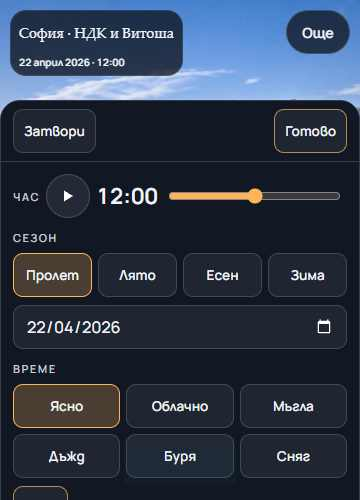
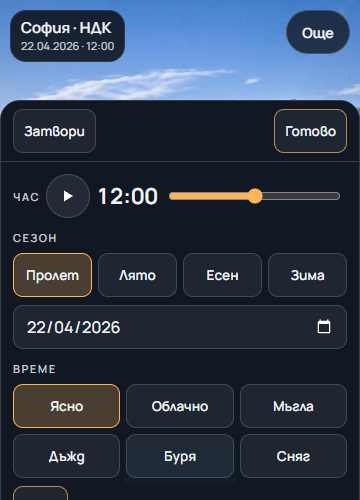
Compact mobile header and bound shadow shader loop

Changed region(s): [[0.0306, 0.0, 0.5194, 0.15]]

diff --git a/src/ui/ui.js b/src/ui/ui.js
@@ -19,7 +19,7 @@ const h = (html) => { const t = document.createElement('template'); t.innerHTML 
 export function buildUI({ state, scene, version, actions }) {
   const cfg = scene.cfg, root = document.querySelector('#app'), $ = s => root.querySelector(s);
   root.append(h(`<div class="top" id="top">
-    <div class="title"><h1>${cfg.title}</h1><button class="title-toggle" type="button" aria-expanded="false" aria-controls="readout">${cfg.title}</button><p>${cfg.subtitle} · слънцето е изчислено за ${cfg.location.name}</p><div class="readout" id="readout"></div></div>
+    <div class="title"><h1>${cfg.title}</h1><button class="title-toggle" type="button" aria-haspopup="dialog" aria-controls="titleDetails"><span>София · НДК</span><span id="compactDate"></span></button><p>${cfg.subtitle} · слънцето е изчислено за ${cfg.location.name}</p><div class="readout" id="readout"></div></div>
     <div class="tr" role="toolbar" aria-label="Режими">
       <button class="chip" id="panelBtn" type="button" aria-pressed="false" title="Скрий всичко (клавиш H)">${ICON.panel}<span>Само снимката</span></button>
       <button class="chip" id="shotBtn" type="button" title="Запази кадъра като PNG">${ICON.camera}<span>Запази кадър</span></button>
@@ -74,6 +74,7 @@ export function buildUI({ state, scene, version, actions }) {
     <p class="muted">Симулация, не прогноза. Звукът е синтезиран в браузъра. Приложението не събира данни и не ползва бисквитки; в браузъра се пази само бележка, че си видял въведението.</p>
     <div class="btns"><button type="button" class="pri" id="creditsClose">Затвори</button></div>
   </dialog>`));
+  root.append(h(`<dialog class="title-details" id="titleDetails" aria-labelledby="detailsTitle"><h2 id="detailsTitle">${cfg.title}</h2><p>${cfg.subtitle} · слънцето е изчислено за ${cfg.location.name}</p><div class="readout" id="detailsReadout"></div><button type="button" class="sec" id="detailsClose">Затвори</button></dialog>`));
   root.append(h(`<div class="toast" id="toast" role="status" aria-live="polite"></div>`));
 
   const hourEl = $('#hour'), clockEl = $('#clock'), dateEl = $('#date'), S = state.S;
@@ -92,7 +93,7 @@ export function buildUI({ state, scene, version, actions }) {
     readout(alt) {
       const pos = alt > 0.5 ? `Слънцето е ${Math.round(alt)}° над хоризонта` : alt > -0.833 ? 'Слънцето е на хоризонта' : `Слънцето е ${Math.round(-alt)}° под хоризонта`;
       const html = `<b>${S.d} ${MONTHS[S.m]} ${S.y} · ${formatClock(S.hour)}</b><span class="readout-details"><br>${pos}<br>Изгрев ${formatClock(state.times.rise)} · Залез ${formatClock(state.times.set)}</span>`;
-      if (html !== ui._ro) { ui._ro = html; $('#readout').innerHTML = html; }
+      if (html !== ui._ro) { ui._ro = html; $('#readout').innerHTML = html; $('#detailsReadout').innerHTML = html; $('#compactDate').textContent = `${String(S.d).padStart(2, '0')}.${String(S.m + 1).padStart(2, '0')}.${S.y} · ${formatClock(S.hour)}`; }
     },
     setPhotoMode(on) { document.body.classList.toggle('photo', on); $('#panelBtn').setAttribute('aria-pressed', String(on)); if (on) { $('#photoExit').focus({ preventScroll: true }); ui.toast('Само снимката. Натисни H или Esc, за да върнеш управлението.', 2600); } else $('#panelBtn').focus({ preventScroll: true }); },
     get photoMode() { return document.body.classList.contains('photo'); },
@@ -132,6 +133,7 @@ export function buildUI({ state, scene, version, actions }) {
     const returnButton = matchMedia('(max-width: 820px), (max-height: 500px)').matches && !$('#panel').classList.contains('is-open') ? $('#moreBtn') : opener;
     returnButton.focus({ preventScroll: true });
   });
+  $('#detailsClose').addEventListener('click', () => $('#titleDetails').close());
   const mobileSheet = installMobileSheet(root);
   addEventListener('keydown', e => {
     if (e.defaultPrevented || e.ctrlKey || e.metaKey || e.altKey || dlg.open) return;   // a modal dialog owns the keyboard

diff --git a/src/ui/ui.css b/src/ui/ui.css
@@ -61,6 +61,12 @@ input[type=date] { min-height: 36px; border-radius: 10px; border: 1px solid var(
 .sheet-pinned { display: contents; }
 .title-toggle { display: none; }
 .mobile-more, .mobile-menu, .mobile-open, .mobile-sheet-header { display: none; }
+.title-details { width: min(430px, calc(100vw - 28px)); max-height: calc(var(--visible-height) - 32px); overflow-y: auto; padding: 18px; border: 1px solid var(--line); border-radius: 16px; background: #111824; color: var(--txt); box-shadow: 0 16px 48px rgba(0,0,0,.6); }
+.title-details::backdrop { background: rgba(3,5,10,.55); }
+.title-details h2 { margin: 0 0 8px; font: 400 24px var(--serif); }
+.title-details p { margin: 0; font-size: 13px; color: var(--mut); }
+.title-details .readout { margin: 12px 0 16px; }
+.title-details button { min-height: 44px; }
 
 .caption { position: fixed; left: 50%; top: 21%; transform: translate(-50%, 8px); font-family: var(--serif); font-style: italic; font-size: clamp(20px, 2.6vw, 34px); text-align: center; color: #fff; text-shadow: 0 2px 24px rgba(0, 0, 0, .8), 0 0 3px rgba(0, 0, 0, .6); opacity: 0; transition: opacity .5s ease, transform .5s ease; pointer-events: none; z-index: 4; width: min(92vw, 900px); }
 .caption.on { opacity: 1; transform: translate(-50%, 0); }
@@ -147,7 +153,11 @@ body.photo .photo-exit:focus-visible, body.photo .photo-exit:hover { opacity: 1;
 
 @media (max-width: 820px), (max-height: 500px) {
   .top { align-items: flex-start; }
-  .title { max-width: calc(100% - 88px); }
+  .title { max-width: calc(100% - 88px); min-height: 50px; padding: 4px 10px; background: rgba(10,14,22,.85); }
+  .title h1, .title p, .title > .readout { display: none; }
+  .title-toggle { display: flex; flex-direction: column; align-items: flex-start; justify-content: center; gap: 1px; width: 100%; min-height: 42px; padding: 0; border: 0; background: none; color: var(--txt); text-align: left; cursor: pointer; }
+  .title-toggle span:first-child { font: 600 15px/1.25 var(--font); white-space: nowrap; }
+  .title-toggle span:last-child { font: 500 11px/1.25 var(--font); color: var(--mut); white-space: nowrap; }
   .tr { flex: 0 0 auto; }
   .mobile-more { display: inline-flex; min-width: 64px; }
   .mobile-open { display: block; position: fixed; left: 50%; bottom: calc(var(--visible-bottom) + env(safe-area-inset-bottom) + 16px); transform: translateX(-50%); z-index: 8; min-width: 112px; min-height: 48px; padding: 0 18px; border: 1px solid var(--acc); border-radius: 999px; background: #131a27; color: var(--txt); font: 700 14px var(--font); box-shadow: 0 4px 20px rgba(0,0,0,.45); cursor: pointer; }
@@ -170,7 +180,7 @@ body.photo .photo-exit:focus-visible, body.photo .photo-exit:hover { opacity: 1;
   .mobile-open:focus-visible, .mobile-menu button:focus-visible, .mobile-sheet-header button:focus-visible { outline: 3px solid var(--acc); outline-offset: 2px; }
 }
 @media (max-height: 500px) and (min-width: 600px) {
-  .title { max-width: min(430px, calc(100% - 88px)); }
+  .title { max-width: min(220px, calc(100% - 88px)); }
   .panel { width: min(40%, 360px); max-height: calc(var(--visible-height) - var(--sheet-top)); }
   .mobile-menu { top: calc(var(--visible-top) + 58px); }
 }

diff --git a/src/ui/mobile-sheet.js b/src/ui/mobile-sheet.js
@@ -4,7 +4,6 @@ export function installMobileSheet(root) {
   const menu = root.querySelector('#mobileMenu');
   const moreButton = root.querySelector('#moreBtn');
   const mobile = matchMedia('(max-width: 820px), (max-height: 500px)');
-  const compact = matchMedia('(max-width: 419px), (max-height: 499px)');
   const secondary = [...root.querySelector('.tr').querySelectorAll('button:not(#moreBtn)')];
   const placeholders = secondary.map(button => {
     const marker = document.createComment('desktop toolbar position');
@@ -55,12 +54,10 @@ export function installMobileSheet(root) {
   });
   root.querySelector('#menuCredits').addEventListener('click', () => root.querySelector('#credits').showModal());
 
-  const title = root.querySelector('.title');
   const titleToggle = root.querySelector('.title-toggle');
-  titleToggle.addEventListener('click', () => {
-    const expanded = title.classList.toggle('expanded');
-    titleToggle.setAttribute('aria-expanded', String(expanded));
-  });
+  const titleDetails = root.querySelector('#titleDetails');
+  titleToggle.addEventListener('click', () => titleDetails.showModal());
+  titleDetails.addEventListener('close', () => titleToggle.focus({ preventScroll: true }));
   for (const button of secondary) button.setAttribute('aria-label', button.querySelector('span').textContent);
 
   function layout() {
@@ -85,10 +82,9 @@ export function installMobileSheet(root) {
     style.setProperty('--visible-bottom', `${Math.max(0, innerHeight - height - top)}px`);
     const headerBottom = root.querySelector('.top').getBoundingClientRect().bottom;
     style.setProperty('--sheet-top', `${Math.max(16, headerBottom - top + 8)}px`);
-    titleToggle.tabIndex = compact.matches ? 0 : -1;
+    titleToggle.tabIndex = mobile.matches ? 0 : -1;
   }
   mobile.addEventListener('change', layout);
-  compact.addEventListener('change', updateViewport);
   addEventListener('resize', updateViewport);
   window.visualViewport?.addEventListener('resize', updateViewport);
   window.visualViewport?.addEventListener('scroll', updateViewport);

diff --git a/src/render/shaders.js b/src/render/shaders.js
@@ -24,7 +24,10 @@ void main(){
   if (inv < 0.09) { o = vec4(0.); return; }
   vec3 P = posAt(vUv, inv);
   float jit = hash12(vUv * uSize), occ = 0., tmax = 1.5;
-  for (float i = 0.; i < uSteps; i++) {
+  // A fixed integer bound compiles reliably on mobile GLSL ES drivers; uSteps still selects the quality level.
+  for (int step = 0; step < 30; step++) {
+    if (float(step) >= uSteps) break;
+    float i = float(step);
     float t = tmax * pow((i + .35 + jit * .65) / uSteps, 1.7) + 0.012;
     vec3 Q = P + uSunCam * t;
     if (Q.z < 0.08) break;

diff --git a/docs/QA.md b/docs/QA.md
@@ -153,3 +153,11 @@ Production build с `npm run preview` на порт 8080 и `node tests/qa/mobil
 Десктоп еталонът е lossless WebP в `tests/qa/fixtures/desktop-base.webp` от `main` при `9595cdb`. Той прави визуалната проверка възпроизводима в чист checkout.
 
 Unit тестовете са 25/25. Съществуващите поведенчески проверки са 35/35, включително реална заявка към Open-Meteo. При 1440×900 сравнението с фиксирания кадър от базовия клон дава 0% пикселна разлика. Реални iOS Safari и Messenger остават непроверени.
+
+## 11. Компактен мобилен хедър и шейдър за сенки
+
+Мобилният хедър показва „София · НДК“ на 15 px и текущата дата и час на 11 px в карта с височина около 50 px. Тап или Enter отваря диалог с пълното заглавие, слънчевата позиция, изгрева и залеза. Диалогът се затваря с „Затвори“ или Escape. Десктоп хедърът запазва предишното си оформление.
+
+Цикълът в шейдъра за сенки вече има фиксирана целочислена горна граница от 30 стъпки и прекъсва според текущата настройка за качество. Това премахва динамичната граница в условието на цикъла, която е риск за компилация при мобилни GLSL ES драйвери. Промяната е проверена с production build, ANGLE/D3D11 и SwiftShader WebGL2, като приложението стартира без грешки от шейдърите. Няма предоставен точен Android compile log и реален Android GPU не е тестван.
+
+`node tests/qa/mobile-controls.mjs` мина на 360×640, 390×844, 412×915, 360×500, 844×390 и 390×700 с емулирана долна лента. Проверява размерите, текста и отварянето на детайлния изглед, липсата на застъпване с „Още“ и поведението на Mobile UX V2. Обновените 18 JPEG кадъра в `docs/screenshots/mobile-v2/` са общо около 620 KB. Desktop 1440×900 има 0% разлика спрямо еталона при фиксиран кадър. Повторно минаха 25/25 unit и 35/35 поведенчески проверки.
